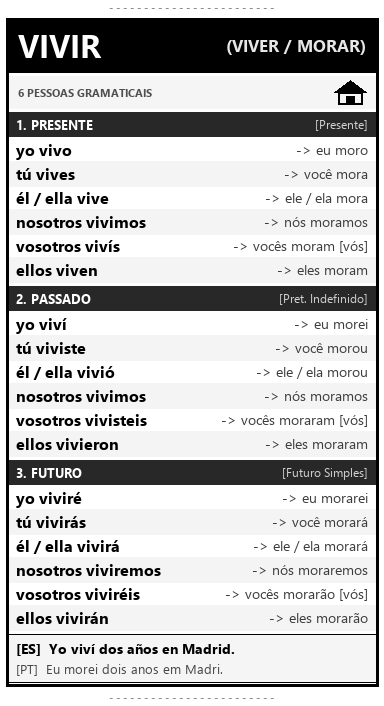
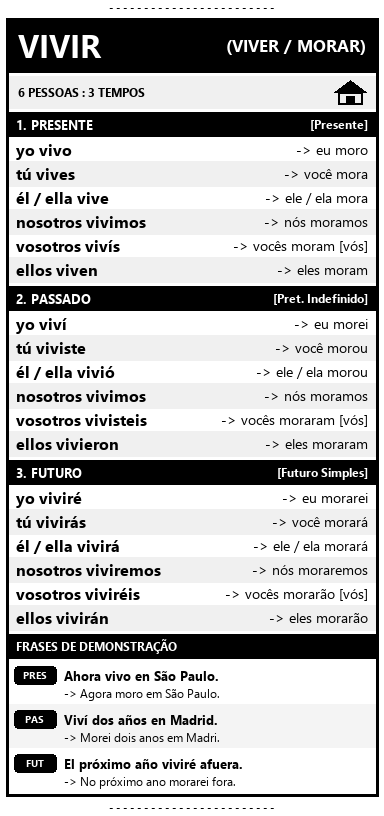
feat: use solid black for Portuguese text and add 3 demonstration sentences per verb

diff --git a/generate_verb_strip.py b/generate_verb_strip.py
@@ -1,7 +1,8 @@
 """
 Gerador de Tiras de Estudo de Verbos em Espanhol para Phomemo M02
-Versão COMPLETA com as 6 PESSOAS GRAMATICAIS (incluindo Vosotros).
-Compacta e sem desperdício de papel.
+- Português em PRETO SÓLIDO (sem pontilhado de cinza para máxima nitidez térmica).
+- Frases de demonstração para os 3 tempos (Presente, Passado, Futuro).
+- 6 Pessoas Gramaticais.
 Largura: 384px (203 DPI)
 """
 
@@ -12,10 +13,16 @@ WIDTH = 384
 
 FONT_REG = r"C:\Windows\Fonts\segoeui.ttf"
 FONT_BOLD = r"C:\Windows\Fonts\segoeuib.ttf"
+FONT_ITALIC = r"C:\Windows\Fonts\segoeuii.ttf"
 
-def get_font(size: int, bold: bool = False):
+def get_font(size: int, bold: bool = False, italic: bool = False):
     try:
-        font_path = FONT_BOLD if bold else FONT_REG
+        if bold:
+            font_path = FONT_BOLD
+        elif italic:
+            font_path = FONT_ITALIC
+        else:
+            font_path = FONT_REG
         return ImageFont.truetype(font_path, size)
     except Exception:
         return ImageFont.load_default()
@@ -49,8 +56,11 @@ VERBS_DATA = {
             ("vosotros hablaréis", "vocês falarão [vós]"),
             ("ellos hablarán", "eles falarão")
         ],
-        "example_es": "Ayer hablé con María.",
-        "example_pt": "Ontem falei com a Maria."
+        "examples": [
+            ("PRES", "Hablo español todos los días.", "Falo espanhol todos os dias."),
+            ("PAS",  "Ayer hablé con María.", "Ontem falei com a Maria."),
+            ("FUT",  "Mañana hablaré con el jefe.", "Amanhã falarei com o chefe.")
+        ]
     },
     "comer": {
         "verb": "COMER",
@@ -80,8 +90,11 @@ VERBS_DATA = {
             ("vosotros comeréis", "vocês comerão [vós]"),
             ("ellos comerán", "eles comerão")
         ],
-        "example_es": "Mañana comeremos paella.",
-        "example_pt": "Amanhã comeremos paella."
+        "examples": [
+            ("PRES", "Como frutas por la mañana.", "Como frutas pela manhã."),
+            ("PAS",  "Ayer comí una paella increíble.", "Ontem comi uma paella incrível."),
+            ("FUT",  "Mañana comeremos juntos.", "Amanhã comeremos juntos.")
+        ]
     },
     "vivir": {
         "verb": "VIVIR",
@@ -111,8 +124,11 @@ VERBS_DATA = {
             ("vosotros viviréis", "vocês morarão [vós]"),
             ("ellos vivirán", "eles morarão")
         ],
-        "example_es": "Yo viví dos años en Madrid.",
-        "example_pt": "Eu morei dois anos em Madri."
+        "examples": [
+            ("PRES", "Ahora vivo en São Paulo.", "Agora moro em São Paulo."),
+            ("PAS",  "Viví dos años en Madrid.", "Morei dois anos em Madri."),
+            ("FUT",  "El próximo año viviré afuera.", "No próximo ano morarei fora.")
+        ]
     }
 }
 
@@ -138,12 +154,12 @@ def draw_mini_house_icon(draw: ImageDraw.ImageDraw, x: int, y: int):
 def generate_verb_strip(verb_key: str) -> Image.Image:
     data = VERBS_DATA[verb_key]
     
-    canvas_h = 1400
+    canvas_h = 1600
     img = Image.new('RGB', (WIDTH, canvas_h), color=(255, 255, 255))
     draw = ImageDraw.Draw(img)
 
     y = 6
-    draw.text((WIDTH // 2, y), "- - - - - - - - - - - - - - - - - - - - - - - -", fill=(140, 140, 140), anchor="mm", font=get_font(11))
+    draw.text((WIDTH // 2, y), "- - - - - - - - - - - - - - - - - - - - - - - -", fill=(0, 0, 0), anchor="mm", font=get_font(11))
     y += 12
 
     card_start_y = y
@@ -151,12 +167,12 @@ def generate_verb_strip(verb_key: str) -> Image.Image:
     # Barra de Título Superior Integrada
     draw.rectangle([(6, y), (WIDTH - 6, y + 54)], fill=(0, 0, 0))
     draw.text((18, y + 27), data["verb"], fill=(255, 255, 255), anchor="lm", font=get_font(32, bold=True))
-    draw.text((WIDTH - 18, y + 27), f"({data['pt']})", fill=(230, 230, 230), anchor="rm", font=get_font(17, bold=True))
+    draw.text((WIDTH - 18, y + 27), f"({data['pt']})", fill=(255, 255, 255), anchor="rm", font=get_font(17, bold=True))
     y += 58
 
-    # Faixa de subtítulo + Ícone
-    draw.rectangle([(6, y), (WIDTH - 6, y + 32)], fill=(245, 245, 245))
-    draw.text((18, y + 16), "6 PESSOAS GRAMATICAIS", fill=(80, 80, 80), anchor="lm", font=get_font(11, bold=True))
+    # Subtítulo + Ícone
+    draw.rectangle([(6, y), (WIDTH - 6, y + 32)], fill=(240, 240, 240))
+    draw.text((18, y + 16), "6 PESSOAS : 3 TEMPOS", fill=(0, 0, 0), anchor="lm", font=get_font(12, bold=True))
     
     if data["icon"] == "speech":
         draw_mini_speech_icon(draw, WIDTH - 52, y + 4)
@@ -166,43 +182,61 @@ def generate_verb_strip(verb_key: str) -> Image.Image:
         draw_mini_house_icon(draw, WIDTH - 52, y + 4)
     y += 36
 
-    # 4. Blocos com as 6 Pessoas
+    # Blocos de Conjugação
     def render_tense_block(cur_y: int, title_es: str, title_pt: str, conjugations: list) -> int:
-        draw.rectangle([(6, cur_y), (WIDTH - 6, cur_y + 24)], fill=(40, 40, 40))
+        draw.rectangle([(6, cur_y), (WIDTH - 6, cur_y + 24)], fill=(0, 0, 0))
         draw.text((16, cur_y + 12), title_es, fill=(255, 255, 255), anchor="lm", font=get_font(13, bold=True))
-        draw.text((WIDTH - 16, cur_y + 12), f"[{title_pt}]", fill=(210, 210, 210), anchor="rm", font=get_font(12))
+        draw.text((WIDTH - 16, cur_y + 12), f"[{title_pt}]", fill=(255, 255, 255), anchor="rm", font=get_font(12, bold=True))
         cur_y += 26
 
         for idx, (es, pt) in enumerate(conjugations):
             if idx % 2 == 1:
-                draw.rectangle([(6, cur_y - 1), (WIDTH - 6, cur_y + 24)], fill=(244, 244, 244))
+                draw.rectangle([(6, cur_y - 1), (WIDTH - 6, cur_y + 24)], fill=(240, 240, 240))
             
-            # Espanhol (16pt Bold)
+            # Espanhol: 16pt Bold (Preto sólido)
             draw.text((16, cur_y + 11), es, fill=(0, 0, 0), anchor="lm", font=get_font(16, bold=True))
-            # Português (14pt)
-            draw.text((WIDTH - 16, cur_y + 11), f"-> {pt}", fill=(60, 60, 60), anchor="rm", font=get_font(14))
+            # Português: 14pt Regular (Preto sólido! Sem pontilhado)
+            draw.text((WIDTH - 16, cur_y + 11), f"-> {pt}", fill=(0, 0, 0), anchor="rm", font=get_font(14))
             cur_y += 24
             
         return cur_y + 4
 
-    # 1. Presente
     y = render_tense_block(y, "1. PRESENTE", "Presente", data["present"])
-    # 2. Passado
     y = render_tense_block(y, "2. PASSADO", "Pret. Indefinido", data["past"])
-    # 3. Futuro
     y = render_tense_block(y, "3. FUTURO", "Futuro Simples", data["future"])
 
-    # 5. Frase de Exemplo no cotidiano
-    draw.rectangle([(6, y), (WIDTH - 6, y + 48)], fill=(245, 245, 245), outline=(0, 0, 0), width=1)
-    draw.text((16, y + 14), f"[ES]  {data['example_es']}", fill=(0, 0, 0), anchor="lm", font=get_font(14, bold=True))
-    draw.text((16, y + 34), f"[PT]  {data['example_pt']}", fill=(70, 70, 70), anchor="lm", font=get_font(13))
-    y += 52
+    # Seção com 3 Frases de Demonstração (Presente, Passado e Futuro)
+    draw.rectangle([(6, y), (WIDTH - 6, y + 24)], fill=(0, 0, 0))
+    draw.text((16, y + 12), "FRASES DE DEMONSTRAÇÃO", fill=(255, 255, 255), anchor="lm", font=get_font(12, bold=True))
+    y += 26
+
+    # Caixa dos exemplos
+    for idx, (tense, es_phrase, pt_phrase) in enumerate(data["examples"]):
+        bg_col = (255, 255, 255) if idx % 2 == 0 else (244, 244, 244)
+        box_h = 44
+        draw.rectangle([(6, y), (WIDTH - 6, y + box_h)], fill=bg_col)
+        
+        # Tag do tempo (ex: PRES, PAS, FUT)
+        draw.rounded_rectangle([(14, y + 6), (56, y + 24)], radius=4, fill=(0, 0, 0))
+        draw.text((35, y + 15), tense, fill=(255, 255, 255), anchor="mm", font=get_font(10, bold=True))
+        
+        # Frase em Espanhol (Negrito preto sólido)
+        draw.text((64, y + 15), es_phrase, fill=(0, 0, 0), anchor="lm", font=get_font(13, bold=True))
+        # Tradução em Português (Preto sólido)
+        draw.text((64, y + 33), f"-> {pt_phrase}", fill=(0, 0, 0), anchor="lm", font=get_font(12))
+        
+        y += box_h
+        if idx < len(data["examples"]) - 1:
+            draw.line([(14, y), (WIDTH - 14, y)], fill=(210, 210, 210), width=1)
+
+    y += 4
 
     # Moldura externa em volta do cartão inteiro
     draw.rectangle([(6, card_start_y), (WIDTH - 6, y)], outline=(0, 0, 0), width=3)
     y += 10
 
-    draw.text((WIDTH // 2, y), "- - - - - - - - - - - - - - - - - - - - - - - -", fill=(140, 140, 140), anchor="mm", font=get_font(11))
+    # Linha de corte final
+    draw.text((WIDTH // 2, y), "- - - - - - - - - - - - - - - - - - - - - - - -", fill=(0, 0, 0), anchor="mm", font=get_font(11))
     y += 10
 
     return img.crop((0, 0, WIDTH, y))
